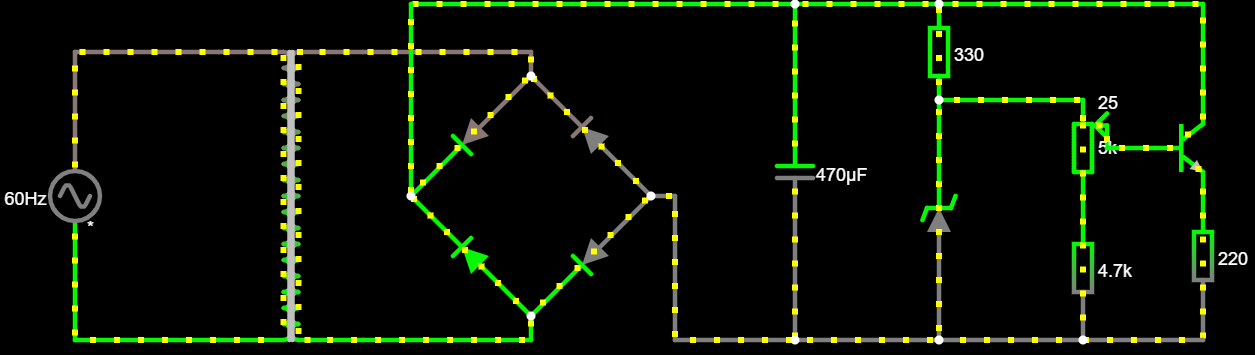
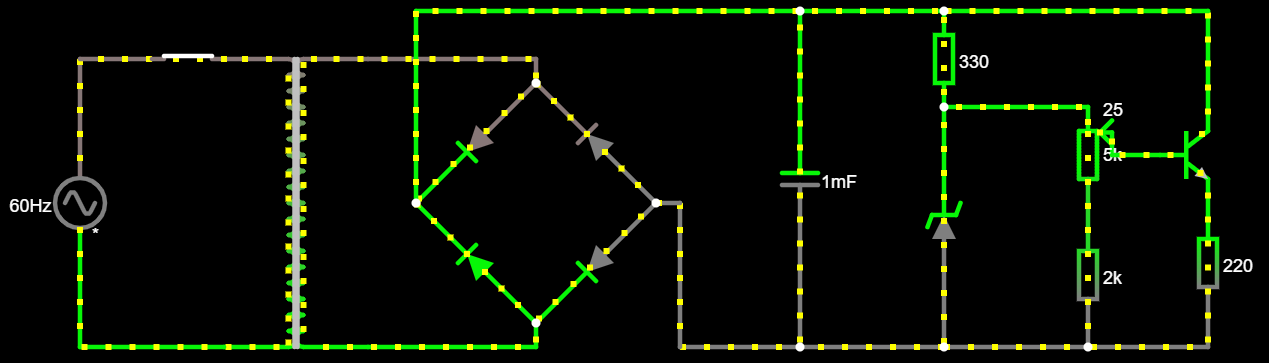
README

Changed region(s): [[0.0, 0.0, 0.9944, 0.9915], [0.4351, 0.6507, 0.4972, 0.8366], [0.3418, 0.6197, 0.404, 0.8056]]

diff --git a/README.md b/README.md
@@ -1,16 +1,27 @@
 # Trabalho Eletrônica Fonte
 ## SCC0180 - Eletrônica para a Computação - Prof Simões [GitHub](https://github.com/simoesusp)
-
+--------
 # Trabalho desenvolvido pelos alunos:
 ### - Diógenes Silva Pedro - nUSP: 11883476 - [GitHub](https://github.com/DioUSP)
 ### - Rodrigo Lopes Assaf - nUSP: 11795530 - [GitHub](https://github.com/Roassaf)
 ### - Pedro Liduino do Nascimento - nUSP: 11796847 - [GitHub]()
-
+--------
 # Desenvolvimento:
-## Circuito:
+## Circuito: 
 ## ![Screenshot](Screenshot.png)
-## Link para o [Circuito](http://tinyurl.com/yd83wmwz) 
-
-## Transformador - R$ 26,00
-## Diodo - R$ 0,38 a unidade
-## Diodo Zener - R$ 
+## Link para o [Circuito](http://tinyurl.com/y86d6b6e) 
+--------
+| Componente      | Especificações|Valor(Unitário)  |
+|:---------------:|:-------------:|:---------------:|
+|Transformador    | 15V e 300mA   | [R$26,00](https://produto.mercadolivre.com.br/MLB-802952898-transformador-primario-0110-0110-secundario-015v-300ma-_JM?matt_tool=82322591&matt_word&gclid=EAIaIQobChMIhsubx8z_6QIVjoSRCh005QUsEAkYCiABEgKHK_D_BwE&quantity=1)|
+|Diodo | 400V e 3A | [R$0,38](https://www.autoeletronica.net/produtos/diodo-retificador-1n5404) |
+|Diodo Zener | 1W e 12V | [R$0,15](https://www.autoeletronica.net/produtos/diodo-zener-1n4742a-12v-1w) |
+|Capacitor | 1mF e 400V | [R$2,87](https://produto.mercadolivre.com.br/MLB-1499835576-capacitor-eletrolitico-1mf-x-400v-kit-c10-pcs-_JM?quantity=1#position=1&type=item&tracking_id=fa215f29-9e58-4df8-935f-7aea9beaf1e2) |
+|Potenciometro | 5kΩ | [R$1,52](https://www.americanas.com.br/produto/212584212/potenciometro-linear-5k-16mm-eixo-estriado?WT.srch=1&acc=e789ea56094489dffd798f86ff51c7a9&epar=bp_pl_00_go_inf-aces_acessorios_geral_gmv&gclid=EAIaIQobChMIlqedgtb_6QIVwoORCh24ZwAEEAkYAiABEgI6w_D_BwE&i=5d712b2d49f937f6250d8225&o=5d6e754f6c28a3cb50909602&opn=YSMESP&sellerid=10428528000110) |
+|Resistência | 220Ω | [R$0,13](https://produto.mercadolivre.com.br/MLB-1345214690-resistor-220-ohms-100-unidades-_JM?quantity=1#position=1&type=item&tracking_id=d8efcfff-32d5-4d41-b944-c3f3722406a6) |
+|Resistência | 330Ω | [R$0,13](https://produto.mercadolivre.com.br/MLB-1342907792-resistor-330-ohms-100-unidades-_JM?matt_tool=79246729&matt_word&gclid=EAIaIQobChMIuqTRqdz_6QIVFYCRCh34pgaiEAkYASABEgLngfD_BwE&quantity=1) |
+|Resistência | 2kΩ | [R$0,17](https://produto.mercadolivre.com.br/MLB-1359755617-100un-resistor-18w-2k-2000-ohms-_JM?quantity=1#position=1&type=item&tracking_id=cfe0aced-991b-46f7-ad48-868c569c5428) |
+|Switch | 250V e 3A | [R$8,00](https://produto.mercadolivre.com.br/MLB-1300399738-boto-chave-gangorra-mini-interruptor-liga-desliga-on-off-10x15mm-kcd13-101-3a-250v-arduino-_JM?variation=42249952649&quantity=1#reco_item_pos=0&reco_backend=machinalis-seller-items-pdp&reco_backend_type=low_level&reco_client=vip-seller_items-above&reco_id=3b5ba658-e897-4edb-bdb5-659b62db67cc) |
+|Custo Total | | **R$39,35** |
+## Justificativa dos componentes escolhidos:
+### !!!A fazer!!!
